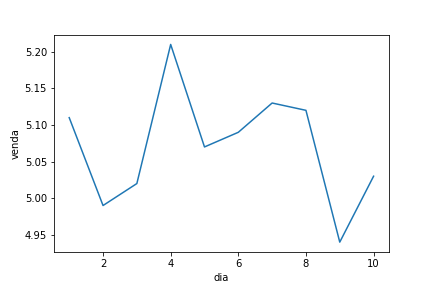
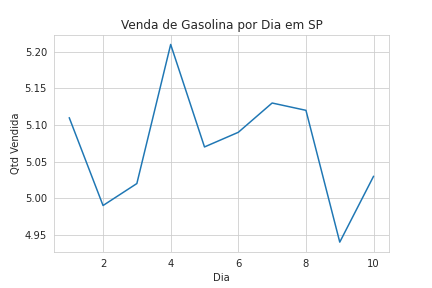
Alteração no script de geração do gráfico e da imagem

diff --git a/gasolina.py b/gasolina.py
@@ -1,11 +1,7 @@
-# código de geração do gráfico 
+with sns.axes_style('whitegrid'):
 
-import pandas as pd
-import seaborn as sns
-
-data = pd.read_csv("gasolina.csv")
-
-line_plot = sns.lineplot(data=data, x="dia", y="venda")
+  line_plot = sns.lineplot(data=data, x="dia", y="venda", palette="pastel")
+  line_plot.set(title='Venda de Gasolina por Dia em SP', xlabel='Dia', ylabel='Qtd Vendida')
 
 fig = line_plot.get_figure()
 fig.savefig("gasolina.png")
